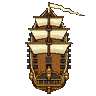
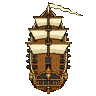
Chess at Sea sprites: rebuild from the transparent ship images
The new source images are true transparent PNGs, so the builder now uses
their alpha directly instead of finding the white background (it still
falls back to that for opaque images). Same look, cleaner edges.

Claude-Session: https://claude.ai/code/session_01PLGLJ8LZNrGZoyEnc8z1Kj

Changed region(s): [[0.25, 0.0, 0.9062, 1.0], [0.5938, 0.3438, 0.625, 0.375]]

diff --git a/pb-and-jay/scripts/build-chess-sprites.py b/pb-and-jay/scripts/build-chess-sprites.py
@@ -5,9 +5,11 @@ usage: python3 -I scripts/build-chess-sprites.py <dir with sloop.png, frigate.pn
 
 (e.g. output dir: src/assets/chess-at-sea)
 
-Each source is a ship (bow up) on a plain white background. The script
-  1. cuts the ship out (flood-fills the white background from the border and
-     strips the magenta halo the image generator leaves at the edges),
+Each source is a ship (bow up), ideally a PNG with a transparent background
+(a plain white one also works). The script
+  1. cuts the ship out (uses the transparency, or flood-fills the white
+     background from the border) and strips the magenta halo the image
+     generator can leave at the edges,
   2. scales all six by ONE common factor so the bigger ships stay bigger,
   3. centres each on its hull in a square frame,
   4. forces every sprite onto a single shared 16-colour palette (EGA style),
@@ -66,12 +68,18 @@ def border_connected(mask):
 
 
 def cut_out(path):
-    im = Image.open(path).convert('RGB')
+    src = Image.open(path)
+    # Prefer the image's own transparency; otherwise find the white background.
+    has_alpha = src.mode == 'RGBA' and np.asarray(src.getchannel('A')).min() < 255
+    im = src.convert('RGBA' if has_alpha else 'RGB')
     im = im.resize((WORK_WIDTH, round(im.height * WORK_WIDTH / im.width)), Image.LANCZOS)
-    arr = np.asarray(im).astype(np.int16)
+    full = np.asarray(im)
+    arr = full[..., :3].astype(np.int16)
 
-    near_white = (arr.min(axis=2) >= WHITE_MIN)
-    background = border_connected(near_white)
+    if has_alpha:
+        background = full[..., 3] < 128
+    else:
+        background = border_connected(arr.min(axis=2) >= WHITE_MIN)
 
     # The generator leaves a magenta halo just outside the dark outline.
     r, g, b = arr[..., 0], arr[..., 1], arr[..., 2]
